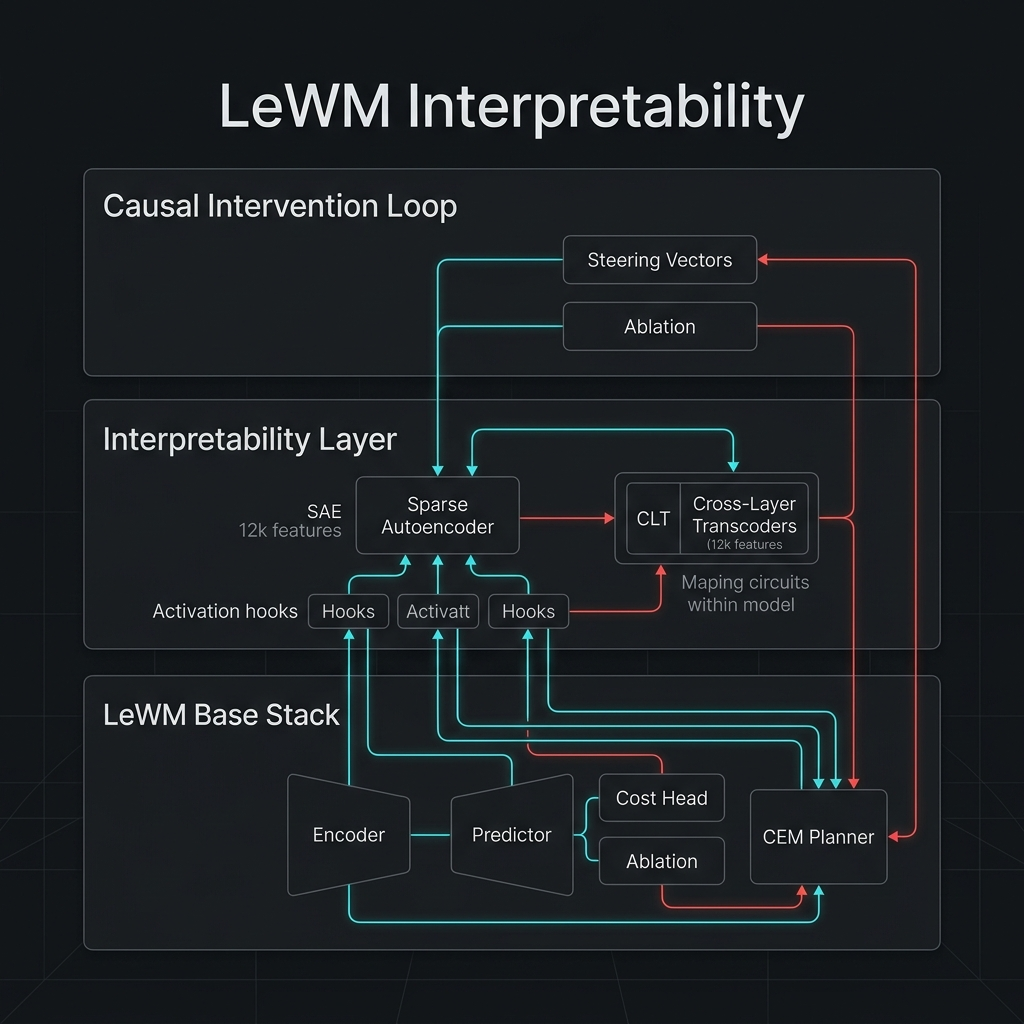
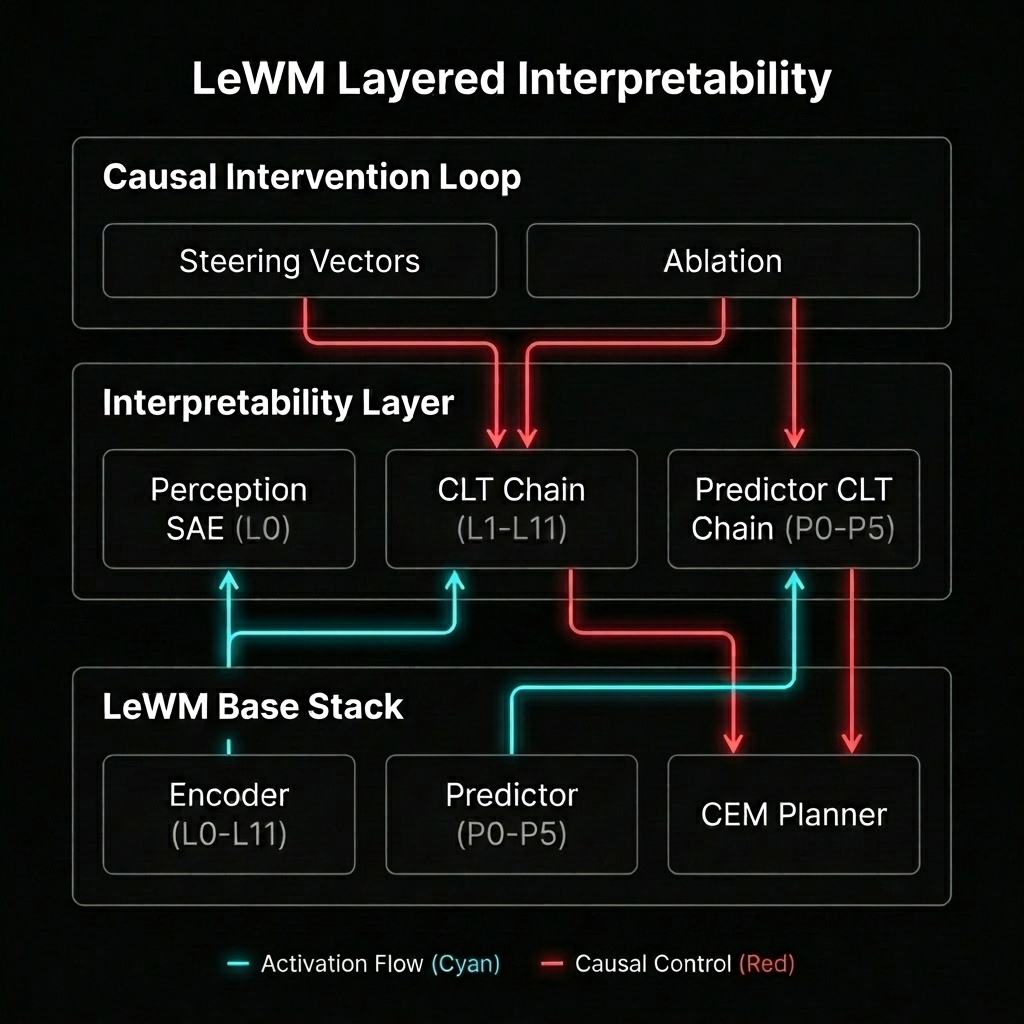
added the scripts for exploring the output on neuronpedia

diff --git a/interpretability/transcoders/colab_bridge.py b/interpretability/transcoders/colab_bridge.py
@@ -1,0 +1,88 @@
+import os
+import json
+import cv2
+import threading
+import argparse
+from pathlib import Path
+from fastapi import FastAPI, HTTPException, Response
+import uvicorn
+
+app = FastAPI()
+
+# Global config to be set by CLI args
+CONFIG = {"meta_path": None, "dataset_dir": None, "meta": None}
+
+
[email redacted]("/api/robot-dataset/frames/{idx}.jpg")
+async def get_frame(idx: int):
+    """
+    Extracts a frame from the cloud-stored dataset (Google Drive) and serves it via HTTP.
+    """
+    meta = CONFIG["meta"]
+    dataset_dir = CONFIG["dataset_dir"]
+
+    # 1. Map index to episode and frame
+    ep_idx = idx // (meta["frames_per_ep"] - 2)
+    local_f = idx % (meta["frames_per_ep"] - 2)
+
+    if ep_idx >= len(meta["episodes"]):
+        raise HTTPException(status_code=404, detail="Index out of range")
+
+    ep_id = meta["episodes"][ep_idx]
+    video_path = dataset_dir / "videos" / f"{ep_id}.mp4"
+
+    if not video_path.exists():
+        raise HTTPException(status_code=404, detail=f"Video not found: {ep_id}")
+
+    # 2. Extract Frame
+    cap = cv2.VideoCapture(str(video_path))
+    cap.set(cv2.CAP_PROP_POS_FRAMES, local_f + 1)
+    ret, frame = cap.read()
+    cap.release()
+
+    if not ret:
+        raise HTTPException(status_code=500, detail="Failed to extract frame")
+
+    # 3. Resize for dashboard
+    frame = cv2.resize(frame, (480, 480))
+
+    # 4. Return as JPEG
+    _, buffer = cv2.imencode(".jpg", frame)
+    return Response(content=buffer.tobytes(), media_type="image/jpeg")
+
+
+def start_pinggy():
+    """Starts the Pinggy SSH tunnel in the background."""
+    print("\n🚀 Starting Pinggy Tunnel...")
+    print("💡 Copy the .pinggy.link URL and provide it to the local proxy server.")
+    os.system("ssh -p 443 -R0:localhost:8000 a.pinggy.io")
+
+
+def main():
+    parser = argparse.ArgumentParser(description="LeWM Colab Visual Bridge")
+    parser.add_argument(
+        "--meta", type=str, required=True, help="Path to encoder_L0.json metadata"
+    )
+    parser.add_argument(
+        "--dataset", type=str, required=True, help="Path to gr1_pickup_grasp directory"
+    )
+    parser.add_argument("--port", type=int, default=8000, help="Local server port")
+    parser.add_argument("--tunnel", action="store_true", help="Start Pinggy tunnel")
+    args = parser.parse_args()
+
+    # Load metadata
+    with open(args.meta, "r") as f:
+        CONFIG["meta"] = json.load(f)
+    CONFIG["dataset_dir"] = Path(args.dataset)
+
+    # Start tunnel if requested
+    if args.tunnel:
+        threading.Thread(target=start_pinggy, daemon=True).start()
+
+    # Launch server
+    print(f"📡 Image server starting on port {args.port}...")
+    uvicorn.run(app, host="0.0.0.0", port=args.port)
+
+
+if __name__ == "__main__":
+    main()

diff --git a/interpretability/transcoders/export_to_saelens.py b/interpretability/transcoders/export_to_saelens.py
@@ -1,0 +1,79 @@
+import os
+import json
+import torch
+import argparse
+from pathlib import Path
+
+
+def export_to_saelens(input_path, output_dir):
+    """
+    Converts Le-Probe Transcoder/SAE weights to the SAELens/Neuronpedia format.
+    """
+    print(f"📦 Exporting {input_path} to SAELens format...")
+
+    # 1. Load Le-Probe weights
+    data = torch.load(input_path, map_location="cpu")
+    sd = data["state_dict"]
+    config = data["config"]
+    norm_stats = data["norm_stats"]
+
+    # Create output directory
+    output_path = Path(output_dir)
+    output_path.mkdir(exist_ok=True, parents=True)
+
+    # 2. Map Weights
+    # SAELens expects:
+    # W_enc: (d_model, d_sae)
+    # b_enc: (d_sae,)
+    # W_dec: (d_sae, d_model)
+    # b_dec: (d_model,)
+
+    new_sd = {
+        "W_enc": sd["encoder.weight"].T,
+        "b_enc": sd["encoder.bias"],
+        "W_dec": sd["decoder.weight"].T,
+        "b_dec": sd["decoder.bias"],
+    }
+
+    # 3. Generate SAELens Config
+    saelens_config = {
+        "architecture": (
+            "standard"
+            if config["source_layer"] == config["target_layer"]
+            else "transcoder"
+        ),
+        "d_in": config.get("d_model", 192),
+        "d_sae": config["dict_size"],
+        "dtype": "float32",
+        "device": "cpu",
+        "model_name": "LeWM-v17",
+        "hook_name": config["source_layer"],
+        "hook_layer": (
+            int(config["source_layer"].split("_L")[-1])
+            if "_L" in config["source_layer"]
+            else 0
+        ),
+        "activation_size": config.get("d_model", 192),
+        "norm_stats": {
+            "mean": norm_stats["mean"].tolist(),
+            "std": norm_stats["std"].tolist(),
+        },
+    }
+
+    # 4. Save
+    torch.save(new_sd, output_path / "sae_weights.pt")
+    with open(output_path / "config.json", "w") as f:
+        json.dump(saelens_config, f, indent=4)
+
+    print(f"✨ Export complete: {output_path}")
+
+
+if __name__ == "__main__":
+    parser = argparse.ArgumentParser()
+    parser.add_argument(
+        "--input", type=str, required=True, help="Path to .pt weight file"
+    )
+    parser.add_argument("--output", type=str, required=True, help="Output directory")
+    args = parser.parse_args()
+
+    export_to_saelens(args.input, args.output)

diff --git a/interpretability/transcoders/ingest_lewm_dashboard.py b/interpretability/transcoders/ingest_lewm_dashboard.py
@@ -1,0 +1,79 @@
+import json
+import os
+import subprocess
+from pathlib import Path
+
+
+def run_sql_batch(sqls):
+    batch_file = Path("ingest_batch.sql")
+    with open(batch_file, "w") as f:
+        f.write("\n".join(sqls))
+
+    # Copy to container and run
+    subprocess.run(
+        f"docker cp {batch_file} neuronpedia-postgres-1:/tmp/ingest_batch.sql",
+        shell=True,
+        check=True,
+    )
+    subprocess.run(
+        f"docker exec -i neuronpedia-postgres-1 psql -U postgres -d postgres -f /tmp/ingest_batch.sql",
+        shell=True,
+        check=True,
+    )
+
+    batch_file.unlink()
+
+
+def ingest():
+    dashboard_path = Path("le-probe/interpretability/transcoders/lewm_dashboard.json")
+    if not dashboard_path.exists():
+        print(f"❌ Dashboard file not found at {dashboard_path}")
+        return
+
+    with open(dashboard_path, "r") as f:
+        dashboard = json.load(f)
+
+    model_id = dashboard["model_name"]
+    layer_id = dashboard["layer"]
+    creator_id = "clkht01d40000jv08hvalcvly"
+
+    print(f"🚀 Ingesting {len(dashboard['features'])} features for {model_id}...")
+
+    all_sqls = []
+    for feature in dashboard["features"]:
+        f_idx = str(feature["feature_index"])
+
+        # 1. Neuron
+        all_sqls.append(f"""
+        INSERT INTO "Neuron" ("modelId", "layer", "index", "creatorId", "createdAt")
+        VALUES ('{model_id}', '{layer_id}', '{f_idx}', '{creator_id}', NOW())
+        ON CONFLICT ("modelId", "layer", "index") DO NOTHING;
+        """)
+
+        # 2. Activations
+        for i, act in enumerate(feature["activations"]):
+            act_id = f"{model_id}_{layer_id}_{f_idx}_{i}"
+            token = act["token"]
+            val = act["value"]
+            tokens_pg = "{" + f'"{token}"' + "}"
+            values_pg = "{" + str(val) + "}"
+
+            all_sqls.append(f"""
+            INSERT INTO "Activation" 
+            ("id", "modelId", "layer", "index", "tokens", "values", "maxValue", "maxValueTokenIndex", "minValue", "creatorId", "createdAt")
+            VALUES 
+            ('{act_id}', '{model_id}', '{layer_id}', '{f_idx}', '{tokens_pg}', '{values_pg}', {val}, 0, 0, '{creator_id}', NOW())
+            ON CONFLICT (id) DO NOTHING;
+            """)
+
+    # Run in batches of 1000 SQL statements
+    batch_size = 1000
+    for i in range(0, len(all_sqls), batch_size):
+        print(f"  📦 Running batch {i//batch_size + 1}...")
+        run_sql_batch(all_sqls[i : i + batch_size])
+
+    print("✨ Ingestion complete!")
+
+
+if __name__ == "__main__":
+    ingest()

diff --git a/interpretability/transcoders/neuronpedia_server.py b/interpretability/transcoders/neuronpedia_server.py
@@ -1,0 +1,79 @@
+import os
+import json
+import argparse
+import requests
+from fastapi import FastAPI, HTTPException, Response
+from fastapi.middleware.cors import CORSMiddleware
+from pathlib import Path
+
+app = FastAPI()
+
+# Allow CORS for local Neuronpedia instance
+app.add_middleware(
+    CORSMiddleware,
+    allow_origins=["*"],
+    allow_methods=["*"],
+    allow_headers=["*"],
+)
+
+# Global configuration
+CONFIG = {
+    "remote_url": None,
+    "dashboard_path": None,
+}
+
+
[email redacted]("/dashboard")
+async def get_dashboard():
+    """Returns the Neuronpedia-compatible dashboard JSON."""
+    if not CONFIG["dashboard_path"].exists():
+        raise HTTPException(status_code=404, detail="Dashboard JSON not found")
+    with open(CONFIG["dashboard_path"], "r") as f:
+        return json.load(f)
+
+
[email redacted]("/api/robot-dataset/frames/{idx}.jpg")
+async def get_frame(idx: int):
+    """
+    Proxies or locally extracts a frame based on activation index.
+    """
+    if CONFIG["remote_url"]:
+        # REMOTE MODE: Proxy to Colab/Pinggy
+        url = f"{CONFIG['remote_url'].rstrip('/')}/api/robot-dataset/frames/{idx}.jpg"
+        try:
+            resp = requests.get(url, timeout=10)
+            if resp.status_code != 200:
+                raise HTTPException(
+                    status_code=resp.status_code, detail="Remote frame fetch failed"
+                )
+            return Response(content=resp.content, media_type="image/jpeg")
+        except Exception as e:
+            raise HTTPException(status_code=500, detail=str(e))
+    else:
+        # LOCAL MODE: Reverting to original CV2 logic (for small local subsets)
+        # Note: This requires the local paths to be configured correctly
+        raise HTTPException(
+            status_code=501, detail="Local extraction not configured in proxy mode"
+        )
+
+
+if __name__ == "__main__":
+    parser = argparse.ArgumentParser()
+    parser.add_argument(
+        "--dashboard", type=str, required=True, help="Path to dashboard JSON"
+    )
+    parser.add_argument(
+        "--remote-url", type=str, help="Pinggy/Ngrok URL of the Colab bridge"
+    )
+    parser.add_argument("--port", type=int, default=8000)
+    args = parser.parse_args()
+
+    CONFIG["dashboard_path"] = Path(args.dashboard)
+    CONFIG["remote_url"] = args.remote_url
+
+    import uvicorn
+
+    print(f"🚀 Neuronpedia Visual Bridge starting on port {args.port}")
+    if CONFIG["remote_url"]:
+        print(f"🔗 Proxying to cloud: {CONFIG['remote_url']}")
+    uvicorn.run(app, host="0.0.0.0", port=args.port)

diff --git a/interpretability/transcoders/generate_neuronpedia_dashboard.py b/interpretability/transcoders/generate_neuronpedia_dashboard.py
@@ -1,0 +1,64 @@
+import json
+import argparse
+from pathlib import Path
+
+
+def generate_dashboard(
+    report_path, output_path, model_name="LeWM-v17", layer="encoder_L0"
+):
+    """
+    Converts a Le-Probe feature audit report into a Neuronpedia-compatible JSON dashboard.
+    """
+    print(f"🎨 Generating Neuronpedia Dashboard from {report_path}...")
+
+    with open(report_path, "r") as f:
+        report = json.load(f)
+
+    dashboard = {"model_name": model_name, "layer": layer, "features": []}
+
+    for fid, examples in report.items():
+        # Neuronpedia expects a list of top activations for each feature
+        feature_data = {"feature_index": int(fid), "activations": []}
+
+        for val, idx in examples:
+            # We use the Semantic URI Pattern for visual tokens
+            token_str = f"<|IMG_{idx}|>"
+            feature_data["activations"].append(
+                {
+                    "token": token_str,
+                    "value": round(val, 4),
+                    "context": [token_str],  # Visual features use single-token context
+                }
+            )
+
+        dashboard["features"].append(feature_data)
+
+    with open(output_path, "w") as f:
+        json.dump(dashboard, f, indent=4)
+
+    print(f"✨ Dashboard generated: {output_path}")
+    print(
+        f"💡 You can now upload this file to Neuronpedia or use it with a local patched instance."
+    )
+
+
+if __name__ == "__main__":
+    parser = argparse.ArgumentParser()
+    parser.add_argument(
+        "--report", type=str, required=True, help="Path to feature_audit_report.json"
+    )
+    parser.add_argument(
+        "--output",
+        type=str,
+        default="neuronpedia_dashboard.json",
+        help="Output filename",
+    )
+    parser.add_argument(
+        "--model", type=str, default="LeWM-v17", help="Model name for metadata"
+    )
+    parser.add_argument(
+        "--layer", type=str, default="encoder_L0", help="Layer ID for metadata"
+    )
+    args = parser.parse_args()
+
+    generate_dashboard(args.report, args.output, args.model, args.layer)